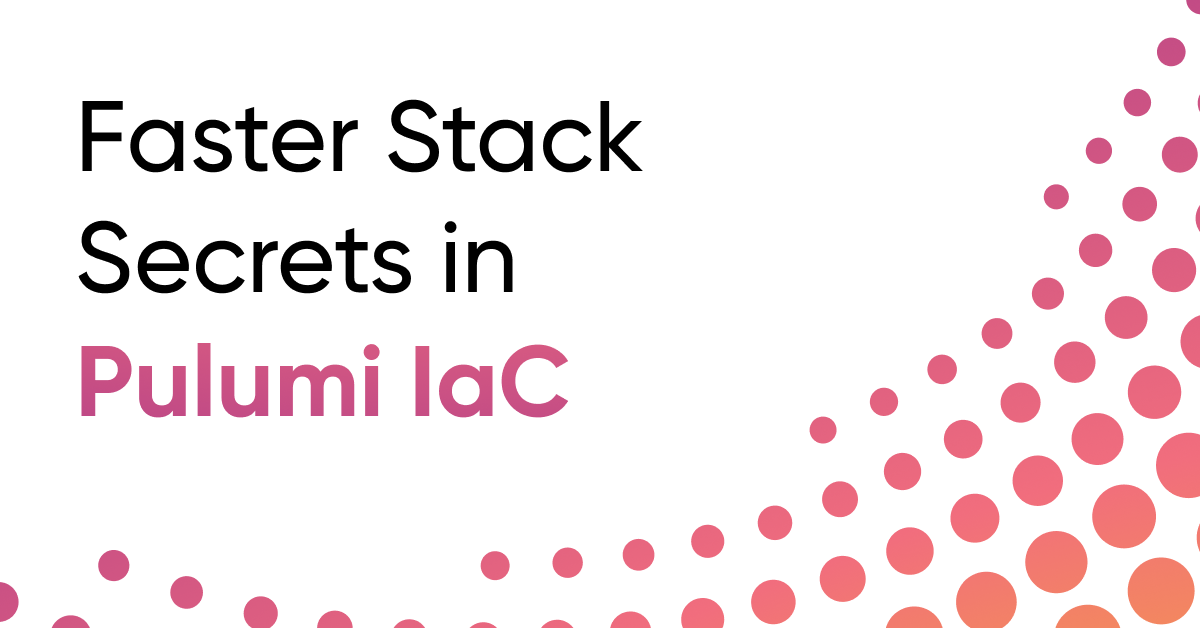
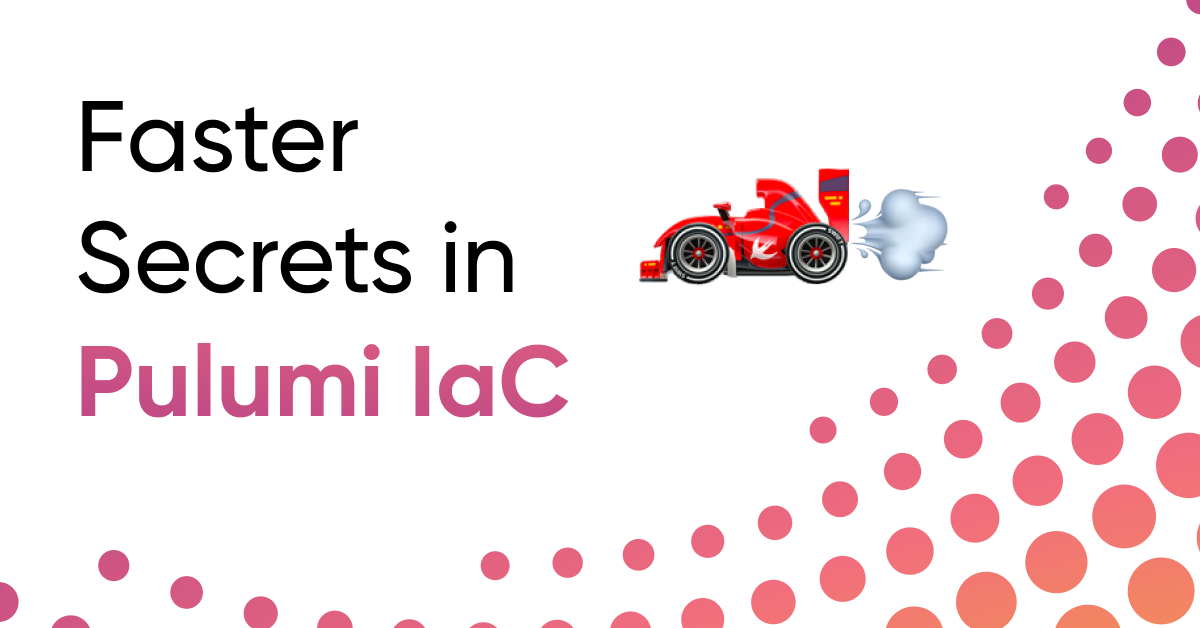
Remove stack, add ESC para

Changed region(s): [[0.5242, 0.242, 0.8017, 0.4538], [0.3083, 0.1513, 0.555, 0.2723]]

diff --git a/content/blog/faster-secrets-management/index.md b/content/blog/faster-secrets-management/index.md
@@ -1,62 +1,21 @@
 ---
-title: "Faster Stack Secrets in Pulumi IaC"
-
-# The date represents the post's publish date, and by default corresponds with
-# the date and time this file was generated. Dates are used for display and
-# ordering purposes only; they have no effect on whether or when a post is
-# published. To influence the ordering of posts published on the same date, use
-# the time portion of the date value; posts are sorted in descending order by
-# date/time.
-date: 2025-03-10
-
-# The draft setting determines whether a post is published. Set it to true if
-# you want to be able to merge the post without publishing it.
+title: "Faster Secrets in Pulumi IaC"
+date: 2025-03-12
 draft: false
-
-# Use the meta_desc property to provide a brief summary (one or two sentences)
-# of the content of the post, which is useful for targeting search results or
-# social-media previews. This field is required or the build will fail the
-# linter test. Max length is 160 characters.
 meta_desc: Pulumi IaC now processes stack secrets significantly faster improving deployment times without compromising security.
-
-# The meta_image appears in social-media previews and on the blog home page. A
-# placeholder image representing the recommended format, dimensions and aspect
-# ratio has been provided for you.
 meta_image: meta.png
-
-# At least one author is required. The values in this list correspond with the
-# `id` properties of the team member files at /data/team/team. Create a file for
-# yourself if you don't already have one.
 authors:
     - daniel-bradley
-
-# At least one tag is required. Lowercase, hyphen-delimited is recommended.
 tags:
     - features
     - releases
     - secrets
     - performance
-
-# The social copy used to promote this post on Twitter and Linkedin. These
-# properties do not actually create the post and have no effect on the
-# generated blog page. They are here strictly for reference.
-
-# Here are some examples of posts we have made in the past for inspiration:
-# https://www.linkedin.com/feed/update/urn:li:activity:7171191945841561601
-# https://www.linkedin.com/feed/update/urn:li:activity:7169021002394296320
-# https://www.linkedin.com/feed/update/urn:li:activity:7155606616455737345
-# https://twitter.com/PulumiCorp/status/1763265391042654623
-# https://twitter.com/PulumiCorp/status/1762900472489185492
-# https://twitter.com/PulumiCorp/status/1755637618631405655
-
 social:
-    twitter: "Faster. Stack. Secrets.
+    twitter: "Faster. IaC. Secrets.
     
     We've optimized secrets management in Pulumi IaC to reduce deployment times while maintaining security. Stacks with many secrets can save up to 10 seconds per operation. Update to version 3.155.0 to experience these performance improvements."
     linkedin: "Pulumi Infrastructure as Code now processes stack secrets more efficiently, reducing deployment times while maintaining robust security. Our latest update optimizes encryption and decryption operations through intelligent batching and smart change detection, eliminating unnecessary processing during updates. For stacks with many secrets, these improvements can save up to 10 seconds per operation, which adds up to significant time savings across your deployment pipeline. Update to version 3.155.0 today to experience these performance improvements without any configuration changes required."
-
-# See the blogging docs at https://github.com/pulumi/docs/blob/master/BLOGGING.md
-# for details, and please remove these comments before submitting for review.
 ---
 
 Pulumi now handles [stack secrets](https://www.pulumi.com/docs/concepts/secrets/) more efficiently through optimized encryption and decryption processes, reducing deployment times while maintaining security standards. Users of [Pulumi Cloud](https://www.pulumi.com/product/pulumi-cloud/) for state management will notice the most improvement due to new batch API capabilities.
@@ -65,7 +24,7 @@ Pulumi now handles [stack secrets](https://www.pulumi.com/docs/concepts/secrets/
 
 ## Secrets Management in Pulumi
 
-Pulumi Cloud transmits and stores stack state securely and in addition encrypts individual _secrets_ within the stack for more fine-grained protection. This encryption ensures that sensitive information—such as database passwords, API keys, and access tokens—remains protected even if someone gains access to your stack file.
+Pulumi Cloud transmits and stores stack state securely and in addition encrypts individual _secrets_ within the stack for more fine-grained protection. This encryption ensures that sensitive information—such as database passwords, API keys, and access tokens—remains protected even if someone gains access to your stack file. For organizations with more complex secrets management needs, Pulumi also offers [Pulumi ESC](/product/esc/) (Environments, Secrets, and Configuration), which provides centralized secrets management with hierarchical environments and dynamic credential generation.
 
 Beyond simple encryption, Pulumi tracks the transitive use of secrets to prevent accidental exposure of sensitive values. This tracking works across your entire infrastructure definition, ensuring secrets remain protected:
 
@@ -124,5 +83,11 @@ These improvements maintain complete backward compatibility with existing stacks
 At Pulumi, we're committed to providing both robust security and exceptional performance. These secrets management optimizations represent our ongoing effort to improve the developer experience without compromising on security.
 
 By reducing wait times during encryption and decryption operations, we're helping teams be more productive while maintaining the same high level of protection for sensitive information. This update exemplifies our philosophy that security and performance should complement rather than compete with each other.
+
+## Beyond Stack Secrets: Pulumi ESC
+
+While these performance improvements enhance Pulumi's built-in secrets management, some organizations require more advanced capabilities. If you need secrets to be centrally managed, composable, and reusable across teams and applications, [Pulumi ESC](/product/esc/) (Environments, Secrets, and Configuration) may be a better fit. Pulumi ESC keeps sensitive information out of source control, supports hierarchical environments, and enables dynamic credential generation. It's designed for organizations that need to share secrets between multiple teams, applications, and infrastructure deployments while maintaining strict access controls and auditability.
+
+### Get Started Today
 
 Update to Pulumi IaC 3.155.0 today to experience these performance improvements and [let us know what you think](https://github.com/pulumi/pulumi/issues/new)!
